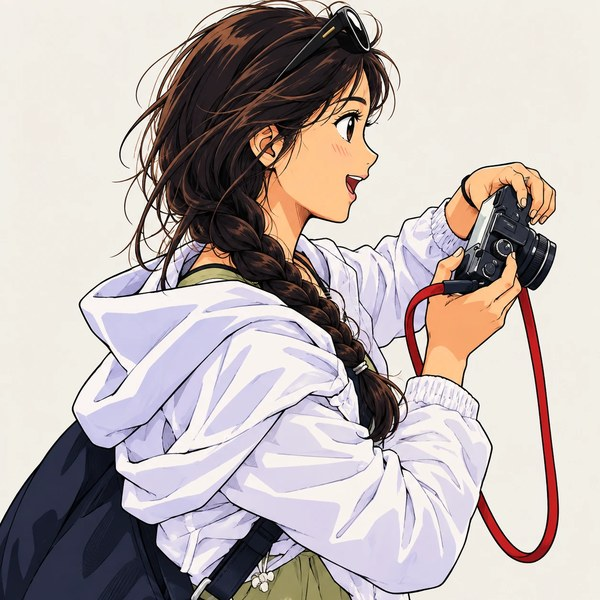
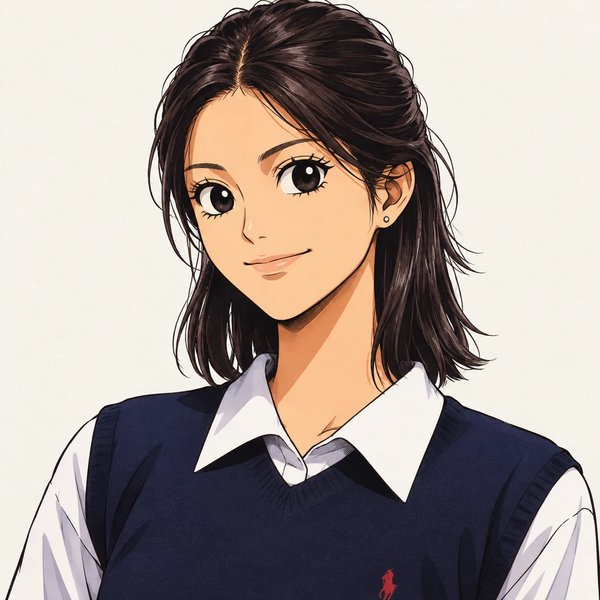
Update Mijeong Kwon photo; scope research topic styles to the research page
The .topic rules for research rows also matched the member card's
.topic line, adding a stray border and padding on the Members page.

diff --git a/assets/css/style.css b/assets/css/style.css
@@ -108,18 +108,18 @@ section.alt { background: var(--bg-alt); border-block: 1px solid var(--line); }
 .grid.students { grid-template-columns: repeat(auto-fill, 200px); }   /* same size as the PI photo */
 
 /* ---------- research topics ---------- */
-.topic {
+.topics .topic {
   display: grid; grid-template-columns: minmax(0, 1.15fr) minmax(0, 1fr); gap: 40px;
   align-items: center; padding: 40px 0; border-top: 1px solid var(--line);
 }
-.topic.no-figs { grid-template-columns: 1fr; }
+.topics .topic.no-figs { grid-template-columns: 1fr; }
 .topic-no {
   display: inline-block; font-size: .85rem; font-weight: 600; color: var(--accent);
   background: var(--accent-soft); border-radius: 20px; padding: 4px 14px; margin-bottom: 14px;
 }
 .topic-no span { opacity: .5; margin: 0 3px; }
-.topic h2 { font-size: 1.3rem; }
-.topic p { color: var(--ink-muted); margin: 0; }
+.topics .topic h2 { font-size: 1.3rem; }
+.topics .topic p { color: var(--ink-muted); margin: 0; }
 
 .slider { position: relative; }
 .slides {
@@ -143,7 +143,7 @@ section.alt { background: var(--bg-alt); border-block: 1px solid var(--line); }
 .dots span { width: 8px; height: 8px; border-radius: 50%; background: var(--line); cursor: pointer; }
 .dots span.on { background: var(--accent); }
 @media (max-width: 760px) {
-  .topic { grid-template-columns: 1fr; gap: 22px; }
+  .topics .topic { grid-template-columns: 1fr; gap: 22px; }
   .slides img { height: 220px; }
 }
 
